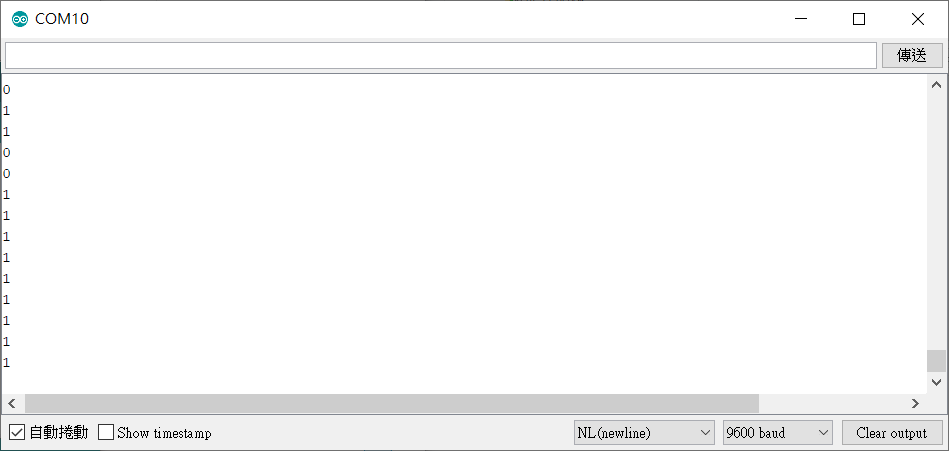
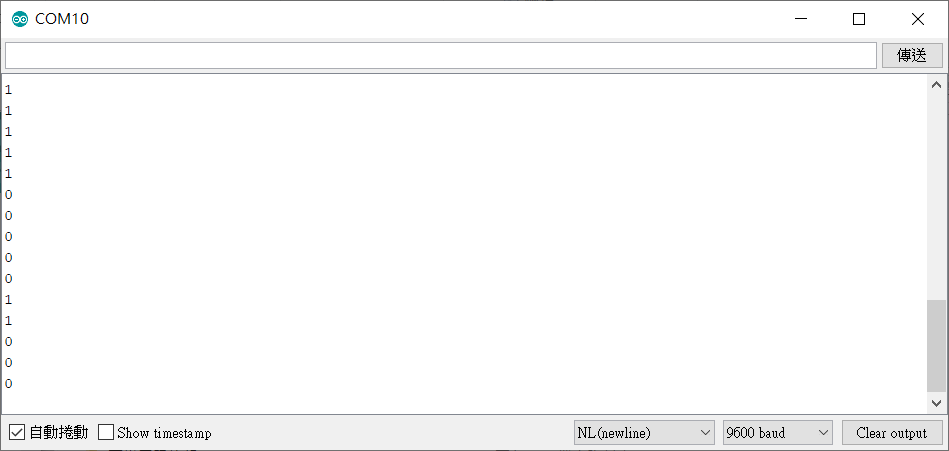
GitBook: [master] 4 pages and 28 assets modified

diff --git a/rk002/mo-zu-shi-yong-jiao-xue/untitled.md b/rk002/mo-zu-shi-yong-jiao-xue/untitled.md
@@ -1,2 +1,48 @@
-# Untitled
+# 滾珠開關模組
+
+![](../../.gitbook/assets/0%20%283%29.png)
+
+## 專案說明
+
+使用「科易KEYES Arduino UNO R3 開發板」連接「滾珠開關模組」, 每0.5秒讀取滾珠開關模組開啟或關閉。
+
+此**滾珠開關模組**包含於**「**[洞洞兩教學材料包 Education Kit 002](https://www.robotkingdom.com.tw/product/rk-education-kit-002/)**」**內。
+
+## KEYES Arduino UNO R3電路圖
+
+* [KEYES Arduino UNO R3](https://www.robotkingdom.com.tw/product/keyes-uno-r3/)
+* 通用型彩色Sensor shield v5.0感測器擴充板
+* 滾珠開關模組
+
+**滾珠開關模組**是**數位訊號輸入**， 可以接「D0 ~ D13」的 KEYES Arduino UNO R3訊號端上。 本範例連接到「**D3」**
+
+![](../../.gitbook/assets/1%20%288%29.png)
+
+## Arduino 程式
+
+每0.5秒鐘讀取滾珠開關模組狀態，並顯示在序列埠監控視窗 \(搖動滾珠開關模組時，可以感覺到有滾珠在移動\)。
+
+![](../../.gitbook/assets/2%20%283%29.png)
+
+產生出的 Arduino 程式如下
+
+void setup\(\)
+
+{
+
+ pinMode\(2, INPUT\);
+
+ Serial.begin\(9600\);
+
+}
+
+void loop\(\)
+
+{
+
+ Serial.println\(digitalRead\(2\)\);
+
+ delay\(500\);
+
+}
 

diff --git a/SUMMARY.md b/SUMMARY.md
@@ -63,6 +63,6 @@
 * [洞洞兩教學材料包](rk002/README.md)
   * [模組使用教學](rk002/mo-zu-shi-yong-jiao-xue/README.md)
     * [按鈕模組](rk002/mo-zu-shi-yong-jiao-xue/005.md)
-    * [Untitled](rk002/mo-zu-shi-yong-jiao-xue/untitled.md)
+    * [滾珠開關模組](rk002/mo-zu-shi-yong-jiao-xue/untitled.md)
     * [Untitled](rk002/mo-zu-shi-yong-jiao-xue/led-mo-zu.md)
 

diff --git a/rk002/mo-zu-shi-yong-jiao-xue/005.md b/rk002/mo-zu-shi-yong-jiao-xue/005.md
@@ -16,7 +16,7 @@
 
 **按鈕模組**是**數位訊號輸入**， 可以接「D0 ~ D13」的 KEYES Arduino UNO R3訊號端上。 本範例連接到「**D3」**
 
-![](../../.gitbook/assets/1%20%2814%29.png)
+![](../../.gitbook/assets/1%20%2815%29.png)
 
 ## Arduino 程式
 

diff --git a/rk002/mo-zu-shi-yong-jiao-xue/led-mo-zu.md b/rk002/mo-zu-shi-yong-jiao-xue/led-mo-zu.md
@@ -13,7 +13,7 @@
 
 **LED模組**是**數位/類比訊號**輸出， 可以接「D0 ~ D13」的 Funduino UNO訊號端上。 本範例連接到「**D8」**
 
-![](../../.gitbook/assets/0%20%289%29.png)
+![](../../.gitbook/assets/0%20%2810%29.png)
 
 ## 積木畫布
 
